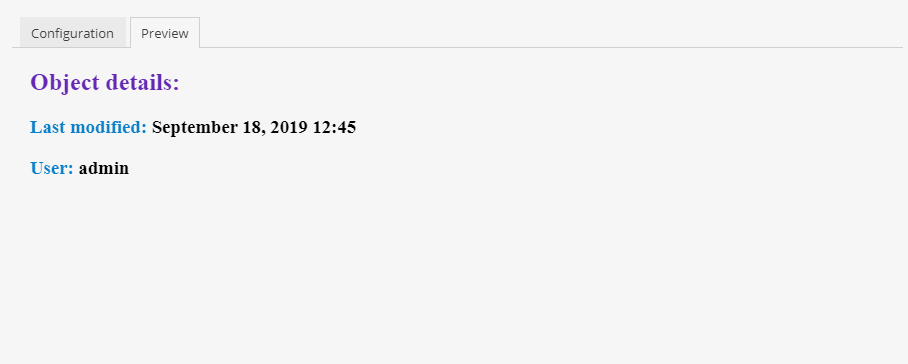
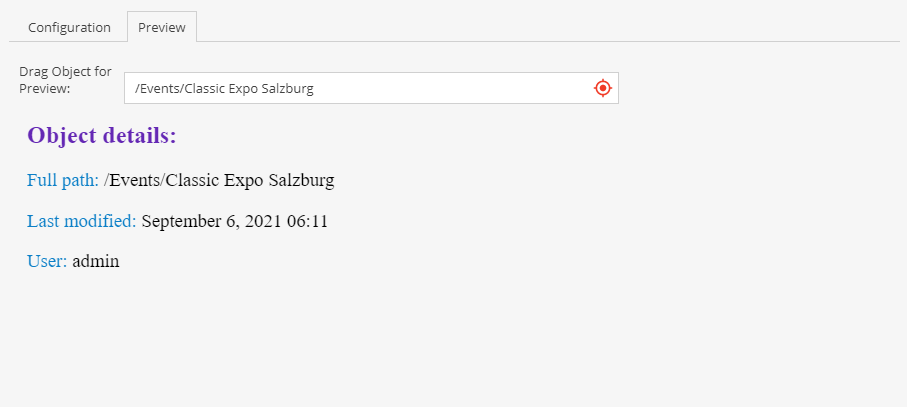
[Data Objects] Text Layout - Add option to define content via twig - move preview object field from configuration tab #9547

diff --git a/bundles/AdminBundle/Resources/public/js/pimcore/object/classes/layout/text.js b/bundles/AdminBundle/Resources/public/js/pimcore/object/classes/layout/text.js
@@ -35,6 +35,12 @@ pimcore.object.classes.layout.text = Class.create(pimcore.object.classes.layout.
     getLayout: function ($super) {
         $super();
 
+        this.previewPanel = new Ext.Panel({
+            layout: 'fit',
+            height: 500,
+            html: '<iframe src="about:blank" style="width: 100%; height: 100%;" frameborder="0" id="text-layout-preview_' + this.id + '"></iframe>',
+        });
+
         this.speicificSettingsForm = new Ext.form.FormPanel({
             title: t("specific_settings"),
             bodyStyle: "padding: 10px;",
@@ -78,6 +84,41 @@ pimcore.object.classes.layout.text = Class.create(pimcore.object.classes.layout.
                                     name: "renderingData"
                                 },
                                 {
+                                    xtype: 'container',
+                                    style: 'padding-top:10px;',
+                                    html: 'You can use the following markup (in source edit mode) to make custom alerts: <br> <pre>&lt;div class=&quot;alert alert-success&quot;&gt;Your Message&lt;/div&gt;</pre>The following contextual classes are available: <pre>alert-primary, alert-secondary, alert-success, alert-danger, alert-warning, alert-info</pre>'
+                                },
+                                {
+                                    xtype: "htmleditor",
+                                    cls: 'objectlayout_element_text',
+                                    height: 300,
+                                    value: this.datax.html,
+                                    name: "html",
+                                    enableSourceEdit: true,
+                                    enableFont: false,
+                                    listeners: {
+                                        initialize: function (el) {
+                                            var head = el.getDoc().head;
+                                            var link = document.createElement("link");
+
+                                            link.type = "text/css";
+                                            link.rel = "stylesheet";
+                                            link.href = '/bundles/pimcoreadmin/css/admin.css';
+
+                                            head.appendChild(link);
+                                            el.getEditorBody().classList.add('objectlayout_element_text');
+                                        }
+                                    }
+                                }
+                            ]
+                        },
+                        {
+                            id: 'settingspreview',
+                            title: 'Preview',
+                            xtype: 'panel',
+                            region: 'center',
+                            items: [
+                                {
                                     xtype: "displayfield",
                                     fieldLabel: t("drag_object_preview"),
                                     width: 600,
@@ -117,57 +158,14 @@ pimcore.object.classes.layout.text = Class.create(pimcore.object.classes.layout.
                                                     }
                                                 }.bind(el)
                                             });
-                                        }.bind(this)
+                                        }.bind(this),
+                                        change: this.loadPreview.bind(this)
                                     }
                                 },
-                                {
-                                    xtype: 'container',
-                                    style: 'padding-top:10px;',
-                                    html: 'You can use the following markup (in source edit mode) to make custom alerts: <br> <pre>&lt;div class=&quot;alert alert-success&quot;&gt;Your Message&lt;/div&gt;</pre>The following contextual classes are available: <pre>alert-primary, alert-secondary, alert-success, alert-danger, alert-warning, alert-info</pre>'
-                                },
-                                {
-                                    xtype: "htmleditor",
-                                    cls: 'objectlayout_element_text',
-                                    height: 300,
-                                    value: this.datax.html,
-                                    name: "html",
-                                    enableSourceEdit: true,
-                                    enableFont: false,
-                                    listeners: {
-                                        initialize: function (el) {
-                                            var head = el.getDoc().head;
-                                            var link = document.createElement("link");
-
-                                            link.type = "text/css";
-                                            link.rel = "stylesheet";
-                                            link.href = '/bundles/pimcoreadmin/css/admin.css';
-
-                                            head.appendChild(link);
-                                            el.getEditorBody().classList.add('objectlayout_element_text');
-                                        }
-                                    }
-                                }
-                            ]
-                        },
-                        {
-                            id: 'settingspreview',
-                            xtype: 'panel',
-                            title: 'Preview',
-                            layout: 'fit',
-                            height: 500,
-                            html: '<iframe src="about:blank" style="width: 100%; height: 100%;" frameborder="0" id="text-layout-preview_' + this.id + '"></iframe>',
+                                this.previewPanel
+                            ],
                             listeners: {
-                                activate: function () {
-                                    let params = this.speicificSettingsForm.getForm().getFieldValues();
-                                    var url = Routing.generate('pimcore_admin_dataobject_class_textlayoutpreview', params);
-
-                                    try {
-                                        Ext.get('text-layout-preview_' + this.id).dom.src = url;
-                                    }
-                                    catch (e) {
-                                        console.log(e);
-                                    }
-                                }.bind(this)
+                                activate: this.loadPreview.bind(this)
                             }
                         }
                     ]
@@ -178,5 +176,16 @@ pimcore.object.classes.layout.text = Class.create(pimcore.object.classes.layout.
         this.layout.add(this.speicificSettingsForm);
 
         return this.layout;
+    },
+
+    loadPreview: function () {
+        let params = this.speicificSettingsForm.getForm().getFieldValues();
+        var url = Routing.generate('pimcore_admin_dataobject_class_textlayoutpreview', params);
+
+        try {
+            Ext.get('text-layout-preview_' + this.id).dom.src = url;
+        } catch (e) {
+            console.log(e);
+        }
     }
 });
